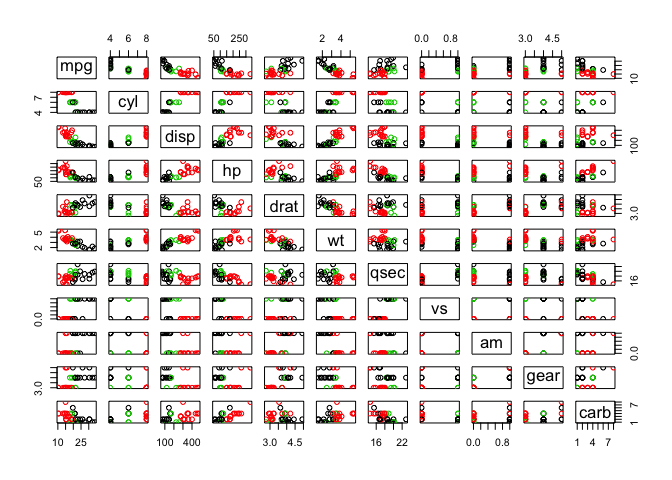
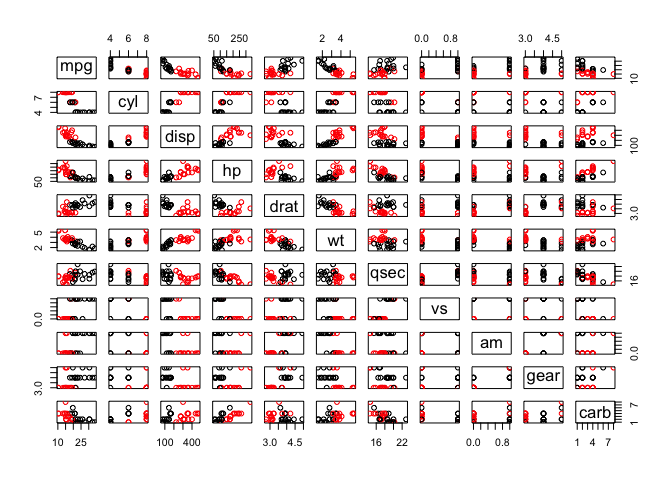
added exports to print/show

diff --git a/README.md b/README.md
@@ -25,39 +25,39 @@ a tie for the most frequent value, the first one is taken.
     km <- kmodes_gower(mtcars, 3)
 
     ## Iter   % Changed Cluster
-    ##   1              43.75
-    ##   2              12.50
-    ##   3              15.62
-    ##   4               3.12
-    ##   5               0.00
+    ##   1               9.38
+    ##   2               3.12
+    ##   3               9.38
+    ##   4               6.25
+    ##   5               3.12
+    ##   6               9.38
+    ##   7               3.12
+    ##   8               3.12
+    ##   9               0.00
 
     km
 
     ## $clusters
-    ##  [1] 1 1 1 3 2 3 2 1 1 3 3 2 2 2 2 2 2 1 1 1 3 2 2 2 2 1 1 1 2 1 2 1
+    ##  [1] 1 1 1 2 2 2 2 1 1 1 1 2 2 2 2 2 2 1 1 1 1 2 2 2 2 1 1 1 2 1 2 1
     ## 
     ## $modes
     ## $modes[[1]]
-    ##    mpg cyl  disp hp drat   wt qsec vs am gear carb
-    ## 1 24.4   4 120.3 93 3.92 2.32 18.6  1  1    4    2
+    ##    mpg cyl   disp hp drat     wt   qsec vs am gear carb
+    ## 1 22.8   4 120.65 96 3.92 2.5425 18.605  1  1    4    2
     ## 
     ## $modes[[2]]
-    ##    mpg cyl  disp    hp  drat    wt   qsec vs am gear carb
-    ## 1 15.2   8 350.5 192.5 3.115 3.755 17.175  0  0    3  3.5
-    ## 
-    ## $modes[[3]]
-    ##    mpg cyl  disp  hp drat   wt  qsec vs am gear carb
-    ## 1 19.2   6 167.6 110  3.7 3.44 19.44  1  0    3    1
+    ##     mpg cyl disp  hp drat   wt  qsec vs am gear carb
+    ## 1 15.35   8  334 180 3.08 3.65 17.35  0  0    3    3
     ## 
     ## 
     ## $sum_distance_total
     ## [1] 8.562269
     ## 
     ## $sum_distance_within
-    ## [1] 7.409058
+    ## [1] 6.400316
     ## 
     ## $distance_within_cluster
-    ## [1] 3.022592 2.772151 1.614315
+    ## [1] 3.702761 2.697555
     ## 
     ## attr(,"class")
     ## [1] "kmodes_gower"
@@ -81,28 +81,28 @@ the rows of the distance matrix should sum to one.
     table(cluster)
 
     ## cluster
-    ##  1  2  3 
-    ## 23  6  3
+    ##  1  2 
+    ## 23  9
 
     d1 <- predict(km, mtcars, type="distance", normalize=FALSE)
     d2 <- predict(km, mtcars, type="distance", normalize=TRUE)
 
     head(d1)
 
-    ##            [,1]       [,2]       [,3]
-    ## [1,] 0.22092529 0.34745588 0.33461067
-    ## [2,] 0.22079202 0.33546794 0.32262273
-    ## [3,] 0.02500652 0.54668028 0.25602122
-    ## [4,] 0.30818210 0.27882427 0.06021400
-    ## [5,] 0.49631966 0.05126177 0.26502612
-    ## [6,] 0.33940112 0.29130025 0.06716408
+    ##            [,1]      [,2]
+    ## [1,] 0.20857489 0.3465317
+    ## [2,] 0.20844162 0.3345437
+    ## [3,] 0.02497782 0.5289812
+    ## [4,] 0.29572347 0.2581926
+    ## [5,] 0.48396926 0.0448337
+    ## [6,] 0.32694250 0.2706686
 
     head(d2)
 
-    ##            [,1]       [,2]       [,3]
-    ## [1,] 0.24465923 0.38478297 0.37055780
-    ## [2,] 0.25121899 0.38169820 0.36708281
-    ## [3,] 0.03021177 0.66047479 0.30931344
-    ## [4,] 0.47616255 0.43080268 0.09303477
-    ## [5,] 0.61077411 0.06308306 0.32614282
-    ## [6,] 0.48634178 0.41741607 0.09624216
+    ##            [,1]       [,2]
+    ## [1,] 0.37573848 0.62426152
+    ## [2,] 0.38388075 0.61611925
+    ## [3,] 0.04508965 0.95491035
+    ## [4,] 0.53387775 0.46612225
+    ## [5,] 0.91521662 0.08478338
+    ## [6,] 0.54708238 0.45291762
